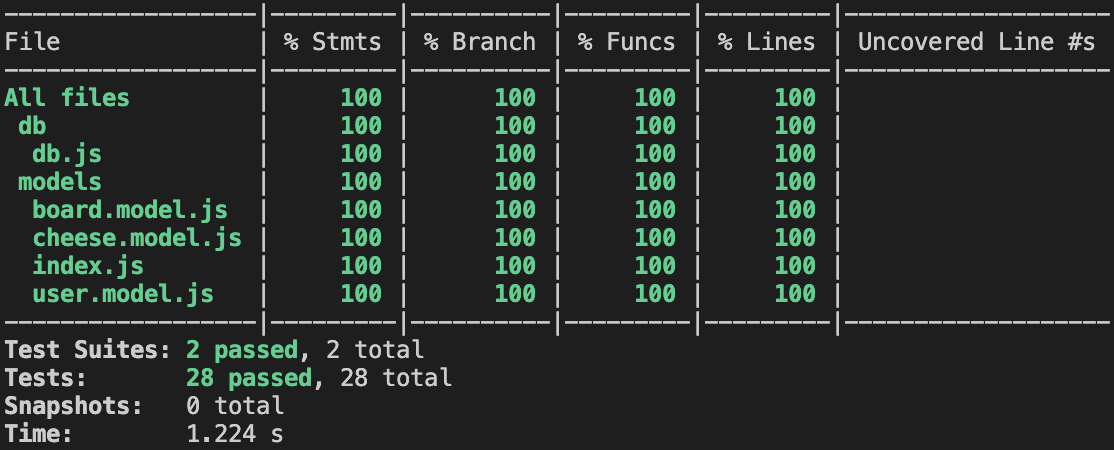
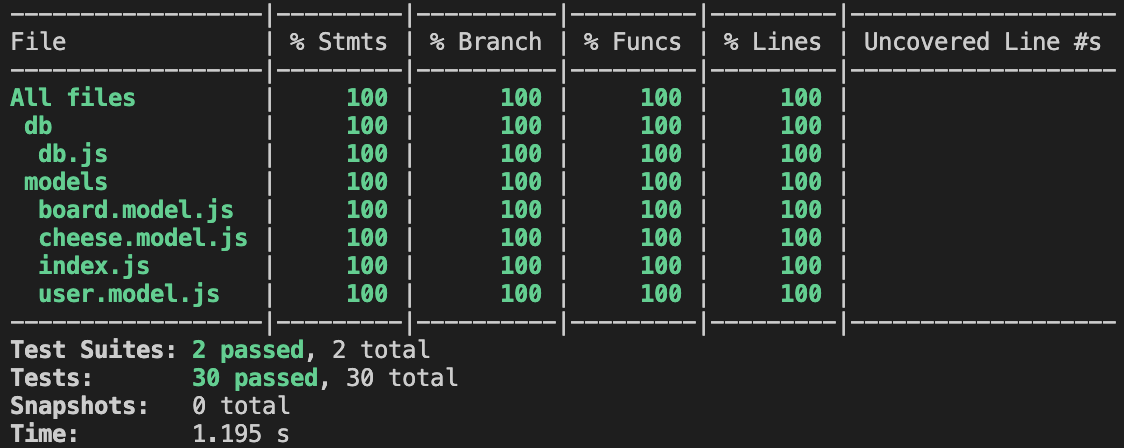
wrote dummy data for seed and added validation test for board rating

diff --git a/db/seed.js b/db/seed.js
@@ -5,8 +5,85 @@ async function seed() {
   await db.sync({
     force: true,
   });
+
+  await Board.bulkCreate([
+    {
+      id: 1,
+      type: "boardTypeOne",
+      description: "boardDescriptionOne",
+      rating: 1,
+    },
+    {
+      id: 2,
+      type: "boardTypeTwo",
+      description: "boardDescriptionTwo",
+      rating: 2,
+    },
+    {
+      id: 3,
+      type: "boardTypeThree",
+      description: "boardDescriptionThree",
+      rating: 3,
+    },
+    {
+      id: 4,
+      type: "boardTypeFour",
+      description: "boardDescriptionFour",
+      rating: 4,
+    },
+    {
+      id: 5,
+      type: "boardTypeFive",
+      description: "boardDescriptionFive",
+      rating: 5,
+    },
+  ]);
+
+  await Cheese.bulkCreate([
+    {
+      id: 1,
+      title: "cheeseTitleOne",
+      description: "cheeseDescriptionTwo",
+    },
+    {
+      id: 2,
+      title: "cheeseTitleTwo",
+      description: "cheeseDescriptionTwo",
+    },
+    {
+      id: 3,
+      title: "cheeseTitleThree",
+      description: "cheeseDescriptionThree",
+    },
+    {
+      id: 4,
+      title: "cheeseTitleFour",
+      description: "cheeseDescriptionFour",
+    },
+    {
+      id: 5,
+      title: "cheeseTitleFive",
+      description: "cheeseDescriptionFive",
+    },
+  ]);
+
+  await User.bulkCreate([
+    { name: "nameOne", email: "one@email.com" },
+    { name: "nameTwo", email: "two@email.com" },
+    { name: "nameThree", email: "three@email.com" },
+    { name: "nameFour", email: "four@email.com" },
+    { name: "nameFive", email: "five@email.com" },
+    { name: "nameSix", email: "six@email.com" },
+    { name: "nameSeven", email: "seven@email.com" },
+  ]);
+
+  let cheese = await Cheese.findAll();
+  let board = await Board.findAll();
+  let user = await User.findAll();
+
+  await board[0].addCheeses([cheese[0], cheese[1], cheese[2]]);
+  await cheese[0].addBoards([board[1], board[2]]);
+  await user[0].addBoards([board[0], board[1]]);
 }
 
 seed();
-
-module.exports = seed;

diff --git a/tests/models.test.js b/tests/models.test.js
@@ -187,6 +187,28 @@ describe("Board model testing", () => {
     });
     expect(result.constructor.name).toEqual("ValidationError");
   });
+
+  it("throw validation error on invalid rating entry: when rating < 0", async () => {
+    const result = await Board.create({
+      type: type,
+      description: description,
+      rating: -2,
+    }).catch((e) => {
+      return e;
+    });
+    expect(result.constructor.name).toEqual("ValidationError");
+  });
+
+  it("throw validation error on invalid rating entry: when rating > 0", async () => {
+    const result = await Board.create({
+      type: type,
+      description: description,
+      rating: 9001,
+    }).catch((e) => {
+      return e;
+    });
+    expect(result.constructor.name).toEqual("ValidationError");
+  });
 });
 
 describe("User model testing", () => {

diff --git a/src/main.js b/src/main.js
@@ -1,0 +1,29 @@
+const { Board, Cheese, User } = require("../models");
+
+async function main() {
+  const user1 = await User.findByPk(1, {
+    include: Board,
+  });
+
+  console.log("User");
+  console.table(user1.toJSON());
+
+  console.log("Boards of user");
+  console.table(user1.Boards.map((b) => b.toJSON()));
+
+  const board1 = await Board.findByPk(1, {
+    include: Cheese,
+  });
+
+  console.log("Board 1 of user");
+  console.table(board1.Cheeses.map((c) => c.toJSON()));
+
+  const board2 = await Board.findByPk(2, {
+    include: Cheese,
+  });
+
+  console.log("Board 2 of user");
+  console.table(board2.Cheeses.map((c) => c.toJSON()));
+}
+
+main();
